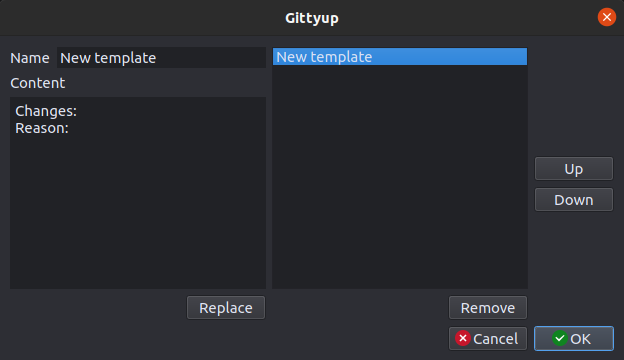
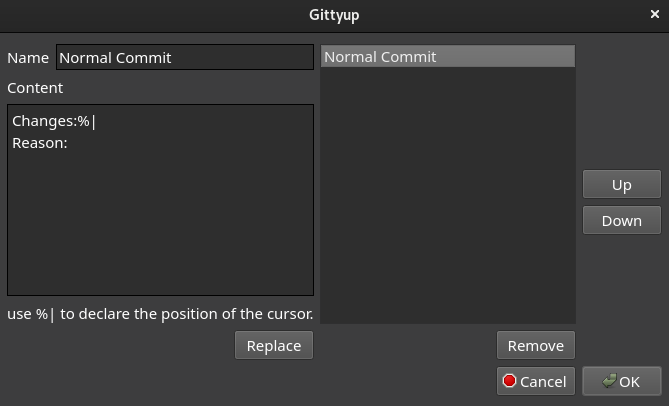
remove TODOs and update screenshot

diff --git a/docs/index.md b/docs/index.md
@@ -37,12 +37,9 @@ Select "Show Selected Branch" in the drop down menu above the commit list
 by eighter clicking on the checkboxes next to each line or by selecting the relevant code and pressing "S". For unstaging you can uncheck the checkboxes or press "U". To revert changes, select the text and press "R".
 
 ![Single line staging](https://raw.githubusercontent.com/Murmele/Gittyup/master/rsrc/screenshots/double_treeview_single_line_staging.png)
-# TODO: image/gif
 
 ## Fullscreen
 of the history or the change dialog by pressing Ctrl+M
-
-# TODO: add gif
 
 ## Staring commits
 to find specific commits much faster
@@ -64,9 +61,9 @@ See blame of the current version with an integrated timeline to see who changed 
 ## Commit message template
 Create you commit messages according a defined template
 
-![Tree View](https://raw.githubusercontent.com/Murmele/Gittyup/master/rsrc/screenshots/CommitMessageTemplateEditor.png)
+![Commit message template selection](https://raw.githubusercontent.com/Murmele/Gittyup/master/rsrc/screenshots/CommitMessageTemplateSelection.png)
 
-# TODO: update screenshot
+![Commit message template editor](https://raw.githubusercontent.com/Murmele/Gittyup/master/rsrc/screenshots/CommitMessageTemplateEditor.png)
 
 ## Tabs
 to be able to switch fast between repositories
